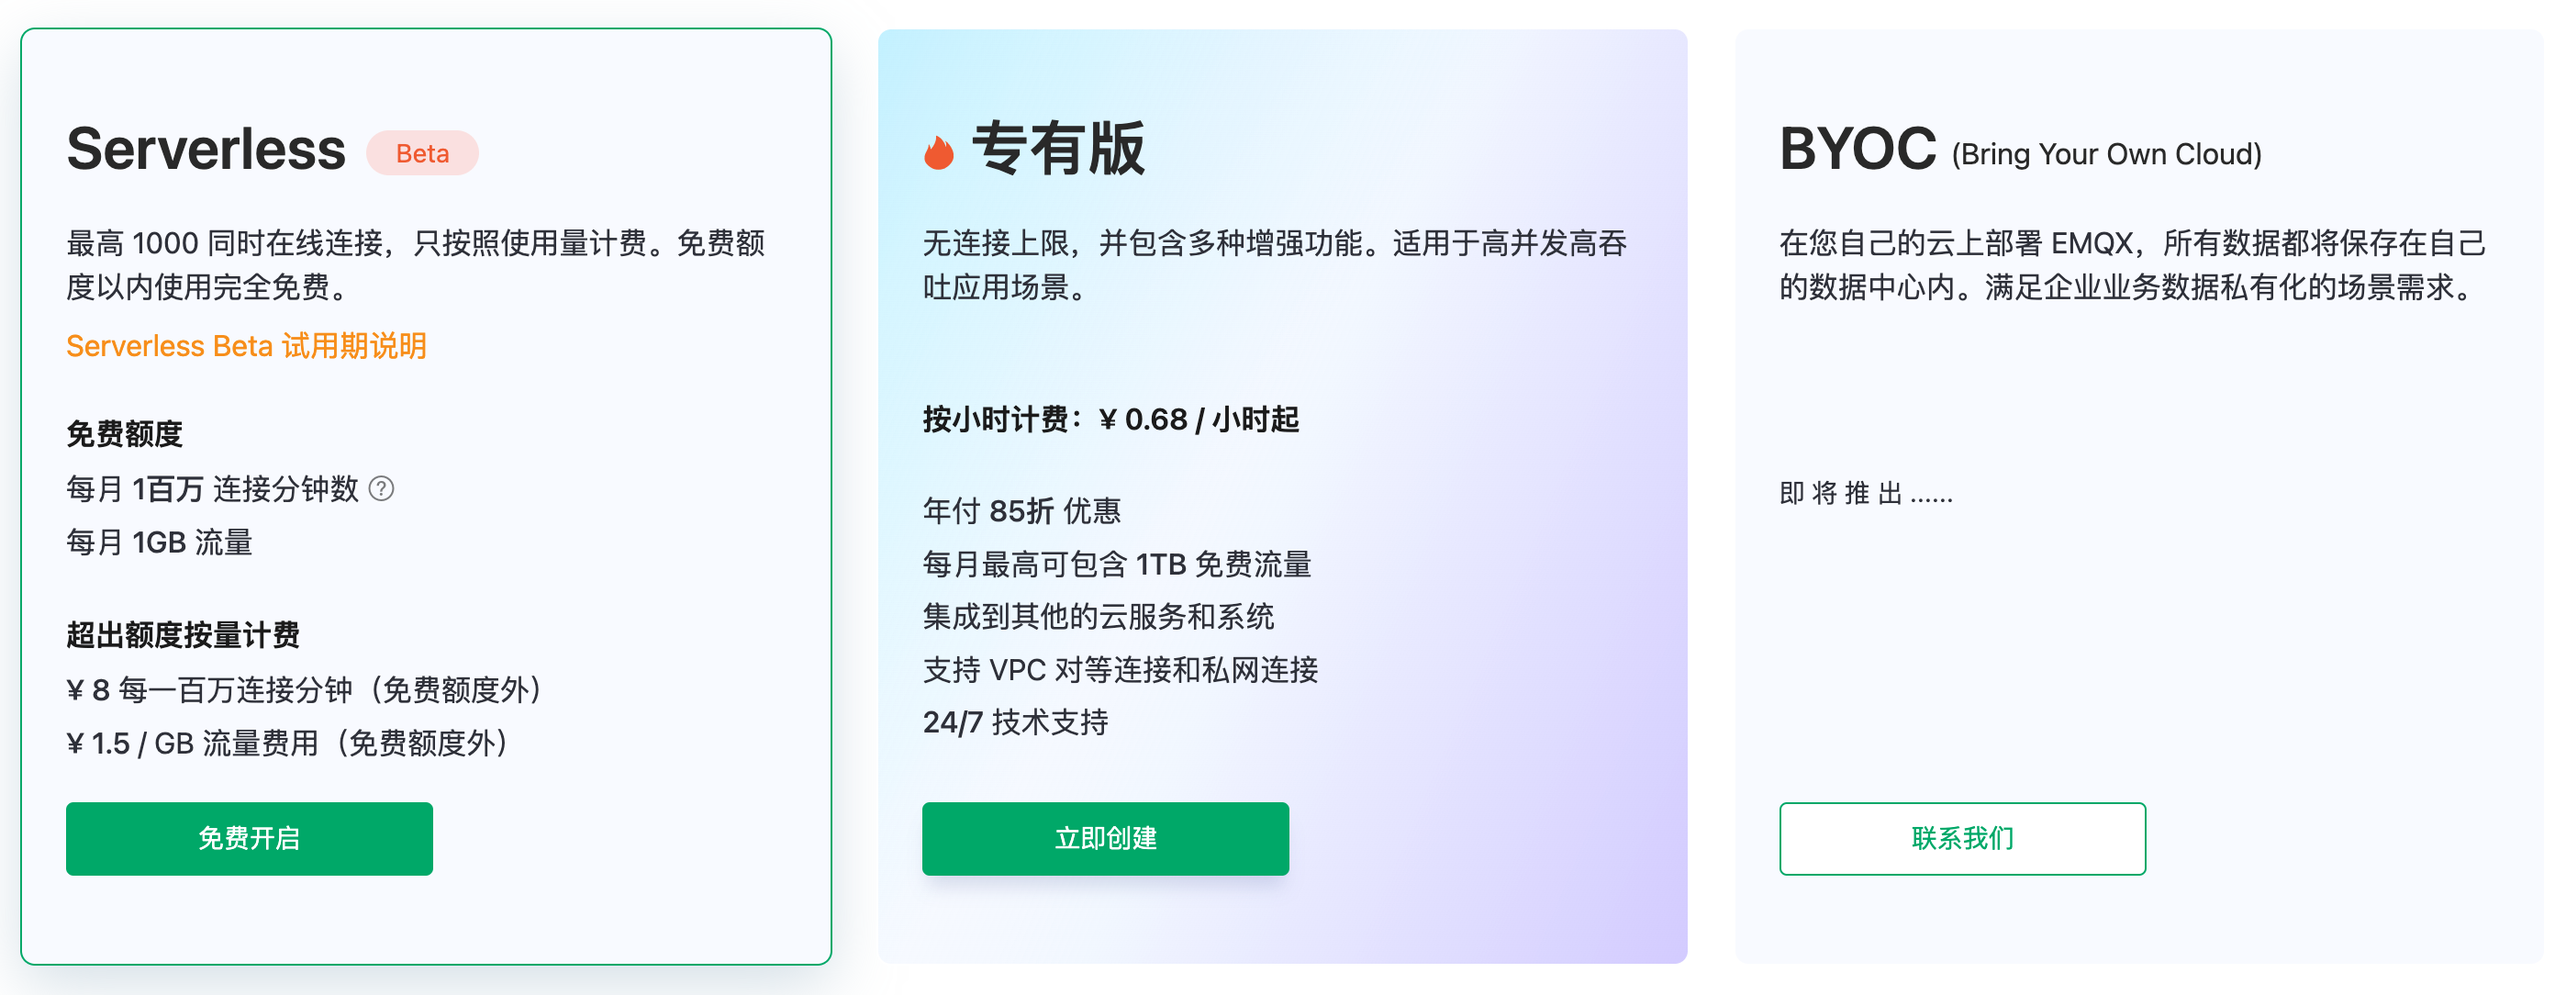
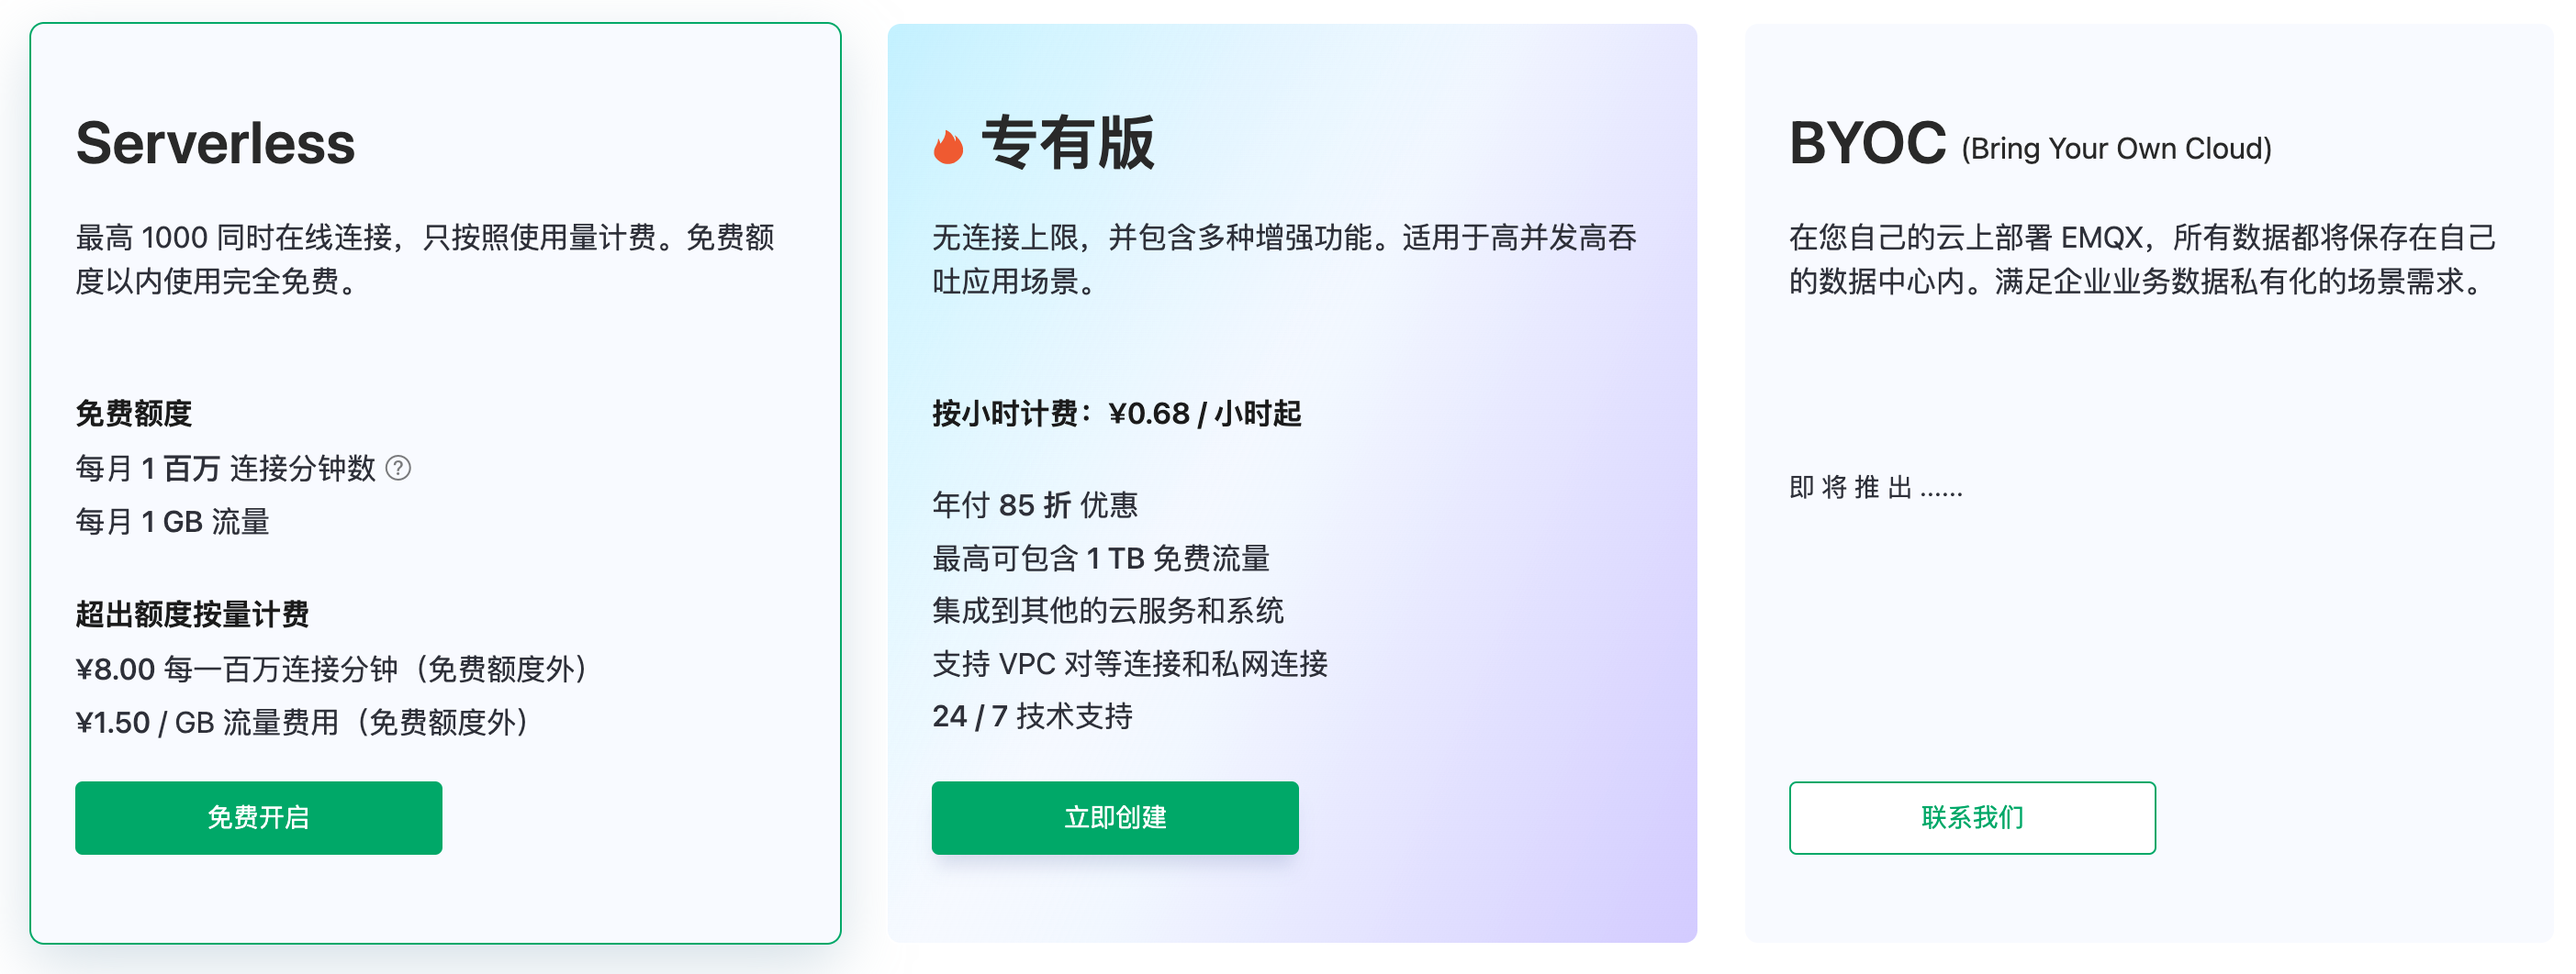
feat(docs): docs updates

diff --git a/zh_CN/create/dedicated.md b/zh_CN/create/dedicated.md
@@ -1,12 +1,14 @@
 # 创建专有版部署
 
-在本教程中，您将学习如何创建新的 EMQX Cloud 专有版部署。
+EMQX Cloud 专有版提供独立的 MQTT 服务实例/集群，有更高的连接上限和 TPS 上限，并且拥有更多的扩展能力。我们以其中专业版为例介绍如何创建和使用。
 
 ## 创建部署
 
 1. 登录账户，进入 EMQX Cloud [控制台](https://cloud.emqx.com/console/)。
-2. 点击**新建部署**按钮进入新建部署页面。
-3. 依据您的需求选择相应的版本，这里选择专业版。
+
+2. 在控制台首页或者部署列表页面都可以在指定项目下创建，点击新建部署进入创建步骤。
+
+3. 点击专有版面板上的 `立即创建`。
 
    ![select_deployment_type](./_assets/select_deployment_type.png)
 
@@ -14,27 +16,27 @@
 
    ![select_deployment_spec](./_assets/select_deployment_spec.png)
 
-   - 选择云平台：EMQX Cloud 暂时支持华为云、阿里云、腾讯云和 AWS 中国，如您有其他云服务提供商需求，您可以提交 [工单](../feature/tickets.md) 或通过邮件（cloud-support@emqx.io）和我们联系。
-   - 选择区域：EMQX Cloud 暂时支持华为云（广州，上海，北京），阿里云（深圳，上海，杭州，北京，张家口），腾讯云（广州，上海，北京），AWS 中国（北京，宁夏）如您有其他区域需求，您可以提交 [工单](../feature/tickets.md) 或通过邮件（cloud-support@emqx.io）和我们联系。
-   - 选择最大连接数：客户端最大允许接入数，您后续可以通过升降部署规格实现增加和减少最大连接数。
-   - 消息上下行 TPS：部署每秒钟发送和接收消息条数的总和，您后续可以通过升降部署规格实现增加和减少消息上下行 TPS。
+   - 选择云平台：专业版支持华为云、阿里云、腾讯云和 AWS 中国，如您有其他云服务提供商需求，您可以提交 [工单](../feature/tickets.md) 或通过邮件（cloud-support@emqx.io）和我们联系。
+   - 选择区域：专业版支持华为云（广州，上海，北京），阿里云（深圳，上海，杭州，北京，张家口，成都），腾讯云（广州，上海，北京），AWS 中国（北京，宁夏）如您有其他区域需求，您可以提交 [工单](../feature/tickets.md) 或通过邮件（cloud-support@emqx.io）和我们联系。
+   - 选择规格：每类规格限制了不同的连接数上限和 TPS 上限。后续可以通过升降部署规格实现增加和减少最大连接数和 TPS 上限。
+   - 可以选择按小时计费或包年计费进行购买。
 
-5. 在 **确认** 页核对部署信息。
+6. 在 **确认** 页核对部署信息。 点击 **立即部署** 并同意 EMQX Cloud 标准服务条款。您将跳转到控制台部署详情页面。
+7. 等待 5 分钟左右直至部署运行状态为**运行中**即可使用。
 
-   ![confirm_page](./_assets/confirm_page.png)
-
-6. 点击 **立即部署** 并同意 EMQX Cloud 标准服务条款。您将跳转到控制台部署详情页面。
-7. 等待 5 分钟左右直至部署运行状态为**运行中**。
-8. 您可以前往 [连接到部署](../connect_to_deployments/overview.md) 查看更多方法连接部署。
 
 ## 部署概览
-部署概览页面可获取到连接地址和连接端口（以下 xxxxx 表示随机端口，具体端口信息以部署概览页面信息为准）：
+
+部署概览页面可获取到部署实时状态和连接信息：
+
+   ![dedicated](./_assets/dedicated_overview.png)
 
 * 实例状态：运行状态和运行时长
 * 连接数：当前连接数和最大连接数
-* 消息上下行 TPS：当前每秒钟消息发送和接收条数和上限
-* 部署名称：该部署的名称，可以通过点击右侧的编辑按钮进行修改
-
+* 消息上下行 TPS：部署当前每秒钟消息发送和接收条数，以及 TPS 上限。
+* 流量： 部署本月已经使用的流量以及免费流量额度显示。
+* 部署名称：部署名称可自定义。
+* 部署规格：显示当前部署的规格。如果是按时计费类型的部署，可以在此转化为包年付费。
 * 连接地址
 
   * 专业版部署连接地址：IP
@@ -44,23 +46,38 @@
 * 连接端口：
 
   * 专业版部署端口：默认开启 1883(mqtt)、8083(ws)，您可以通过配置 TLS/SSL 开启 8883(mqtts) 和 8084(wss) 端口。
-  * 基础版部署端口：**15xxx**(mqtt)， **8083**(ws)， **15xxx**(mqtts)， **8084**(wss)
+  * 基础版部署端口：默认开启 15xxx(mqtt)，15xxx(mqtts)，8083(ws)， 8084(wss) 端口
 
 
 ### [TLS/SSL 配置](./tls_ssl.md)
 
-EMQX Cloud 提供自定义 **单双向 TLS/SSL** 认证，并支持 **自签名证书** 和 **CA 签名证书**。
+专业版提供自定义 **单双向 TLS/SSL** 认证，并支持 **自签名证书** 和 **CA 签名证书**。
 
 
 ### [VPC 对等连接配置](./vpc_peering.md)
 
-EMQX Cloud 支持同云服务商、同区域与客户已有 VPC(Virtual Private Cloud) 创建对等连接。 VPC 对等连接是两个 VPC 之间的网络连接，通过此连接，使两个 VPC 中的实例可以彼此通信，就像它们在同一网络中一样。
+专业版支持同云服务商、同区域与客户已有 VPC(Virtual Private Cloud) 创建对等连接。 VPC 对等连接是两个 VPC 之间的网络连接，通过此连接，使两个 VPC 中的实例可以彼此通信，就像它们在同一网络中一样。
 
 
 ### [私网连接 PrivateLink 配置](./privatelink.md)
-私网连接（PrivateLink）能够实现 EMQX Cloud 部署所在的专有网络 VPC 与公有云上的服务建立安全稳定的私有连接，简化网络架构，实现私网访问服务，避免通过公网访问服务带来的潜在安全风险。
+专业版提供私网连接（PrivateLink）能够实现 EMQX Cloud 部署所在的专有网络 VPC 与公有云上的服务建立安全稳定的私有连接，简化网络架构，实现私网访问服务，避免通过公网访问服务带来的潜在安全风险。
 
 
 ### [API 访问](../api/introduction.md)
 
-EMQX Cloud 提供了 REST API 以实现与外部系统的集成，例如查询客户端信息、发布消息和创建规则等。
+提供了 REST API 以实现与外部系统的集成，例如查询客户端信息、发布消息和创建规则等。
+
+### [内网负载均衡](../vas/intranet-lb.md)
+
+内网负载均衡是一种在内网中对流量进行按需分发的服务，提供部署内网访问能力。内网负载均衡为增值服务，需要单独开通。
+
+
+### [NAT 网关](../vas/nat-gateway.md)
+
+NAT 网关可以提供网络地址转换服务，为专业版部署提供访问公网资源的能力。NAT 网关为增值服务，需要单独开通。
+
+
+## 连接到部署
+
+您可以使用任何 MQTT 客户端工具连接到部署进行测试，我们推荐使用 [MQTT X 连接到部署](../connect_to_deployments/mqttx.md)。
+

diff --git a/zh_CN/create/serverless.md b/zh_CN/create/serverless.md
@@ -1,52 +1,56 @@
-# 创建 Serverless(Beta) 部署
+# 创建 Serverless 部署
 
 EMQX Cloud 已经推出了基于共享集群的 MQTT 服务 —— EMQX Cloud Serverless，赋予开发者或微小企业更低成本且高效测试开发物联网应用的能力。简单几步就创建一个 Serverless 部署。
 
-目前一个账号下只能创建一个 Serverless(Beta) 部署。在 2023.4.1 日之前，Serverless 在 Beta测试阶段，部署的最大连接上限为100，并且完全免费使用。
+Serverless 部署最大的优势在于连接场景只按照实际的使用量进行计费，Serverless 详细的计费方式请查看[定价计费](../price/pricing.md)部分。
 
 
 ## 创建部署
 
 1. 登录 [EMQX Cloud 控制台](https://cloud.emqx.com/console/)
 
-   ![login_console](./_assets/login.png)
 
-2. 单击新建部署按钮
+2. 在控制台首页或者部署列表页面都可以在指定项目下创建，点击新建部署进入创建步骤。
 
-   ![first_create_deployment](./_assets/first_create_deployment.png)
 
-3. 选择 `Serverless(Beta)`
+3. 点击 Serverless 面板上的 `免费开启`
 
    ![create_serverless](./_assets/create_serverless.png)
 
-4. 点击立即部署，并同意 EMQX Cloud 标准服务条款和 Serverless 服务使用条款
+4. 在配置步骤，您可以设置改 Serverless 部署的本月最大消费限额，默认值为 0，即为只使用免费额度。这里设置为 0，消费限额在部署创建之后也可以进行修改。
+
+   ![create_serverless](./_assets/create_serverless_spendlimit.png)
+
+5. 点击立即部署，并同意 EMQX Cloud 标准服务条款和 Serverless 服务使用条款
 
 
-5. 稍事等待至部署状态为**运行中**
-
-   ![serverless_running](./_assets/serverless_running.png)
+6. 稍事等待至部署状态为**运行中**即可使用。
 
 
 ## 部署概览页面
 
-部署概览页面可获取到部署最新的状态和连接信息：
+部署概览页面可获取到部署实时状态和连接信息：
 
    ![serverless](./_assets/serverless_overview.png)
 
-- 部署状态：部署运行状态和创建时间。
+- 实例状态：部署实例运行状态和创建时间。
 - 连接数：当前的连接数和最大连接数。
-- 消息上下行 TPS：当前每秒钟消息发送和接收条数和上限。
-- 连接分钟数：本月已经使用的总连接分钟数。此数值的统计有1小时的延时。
-- 流量：本月已经产生入网和出网的流量。此数值的统计有1小时的延时。
-- 部署名称：可自定义的部署的名称。
-- 连接地址：域名地址。
-- 连接端口：默认开启 8883(mqtts) 和 8084(wss) 端口。
-
-Serverless 仅支持 8883(mqtts) 和 8084(wss) 端口。如果客户端需要 CA 文件，请[在此下载](https://assets.emqx.com/data/emqxsl-ca.crt)。
-
+- 消息上下行 TPS：部署当前每秒钟消息发送和接收条数，以及 TPS 上限。
+- 连接分钟数：本月已经使用的总连接分钟数。此数值的统计有 1 小时的延时。
+- 流量：本月已经产生入网和出网的流量。此数值的统计有 1 小时的延时。
+- 部署名称：部署名称可自定义。
+- 连接地址：客户端/终端设备的连接地址。
+- 连接端口：默认开启 8883 (mqtts) 和 8084 (wss) 端口。
+- 消费限额：部署当月最高消费限制设置，具体可查看[消费限额设置](../deployment/spend_limit.md)
 
 
-## 连接到您的免费试用部署
+::: warning
+Serverless 仅支持 8883 (mqtts) 和 8084 (wss) 端口。如果客户端需要 CA 文件，请[在此下载](https://assets.emqx.com/data/emqxsl-ca.crt)。
+:::
+
+
+
+## 连接 Serverless 部署
 
 1. 添加客户端认证信息
 
@@ -56,7 +60,7 @@ Serverless 仅支持 8883(mqtts) 和 8084(wss) 端口。如果客户端需要 CA
 
 2. 获取免费试用连接信息
 
-   点击概览菜单，您将看到部署连接地址以及连接端口。Serverless(Beta) 默认支持 8883(mqtts), 8084(wss) 端口
+   点击概览菜单，您将看到部署连接地址以及连接端口。Serverless 默认支持 8883(mqtts), 8084(wss) 端口。
 
 3. MQTT X 连接到免费试用部署
 
@@ -72,7 +76,7 @@ Serverless 仅支持 8883(mqtts) 和 8084(wss) 端口。如果客户端需要 CA
 
 ::: warning
 * 若部署持续 30 天没有活跃客户端连接，部署将会被停止。如需继续试用，请在控制台手动启用。
-* 如果部署停止之后 30 天没有开启，部署将会被删除。
+* 如果部署停止之后 30 天未开启，部署将会被删除。
 :::
 
 

diff --git a/zh_CN/deployments/spend_limit.md b/zh_CN/deployments/spend_limit.md
@@ -1,1 +1,18 @@
 # 消费限额
+
+消费限额可以让 Serverless 部署每个月的消费额度都控制在设定值之内，或者当达到时给予提醒。消费限额在创建部署时设置，在部署创建完成之后也可以进行修改。
+
+当消费限额设置为 0，部署**只会消耗免费额度**，即每月 1 百万连接分钟和 1 GB 流量。当免费额度用完，部署将被停止。
+
+   ![spend_limit_0](./_assets/spend_limit_0.png)
+
+当消费限额设置为 1 - 10000 的整数，可以选择当本月部署的消耗达到限额时的动作。可以选择停止部署，或者提醒并且继续计费。如果您选择后者，我们将以邮件的形式发送提醒，部署则会继续运行和计费。
+
+   ![spend_limit_1](./_assets/spend_limit_1.png)
+
+- 当您设置消费限额大于 0，如果您的账户内没有余额，则需要对余额进行充值。
+- 如果您的部署当月的消耗已经大于修改的目标限额，限额修改后会造成部署的停止。如原来的消费限额为 100 元，当月已经消费 80 元，如将限额修改为 50 元，修改完成后部署会停止。请谨慎操作。
+- 如果部署当月产生了消费，即使没有达到消费限额，然而账户余额用完的情况下，部署仍然会被停止。
+
+
+

diff --git a/zh_CN/quick_start/create_free_trial.md b/zh_CN/quick_start/create_free_trial.md
@@ -42,7 +42,6 @@ EMQX Cloud 免费试用部署注意事项：
 
 4. 点击立即部署，并同意 EMQX Cloud 标准服务条款和免费试用申明条款
 
-   ![free_trial_declare](./_assets/free_trial_declare.png)
 
 5. 等待 5 分钟左右，直至部署状态为**运行中**
 
